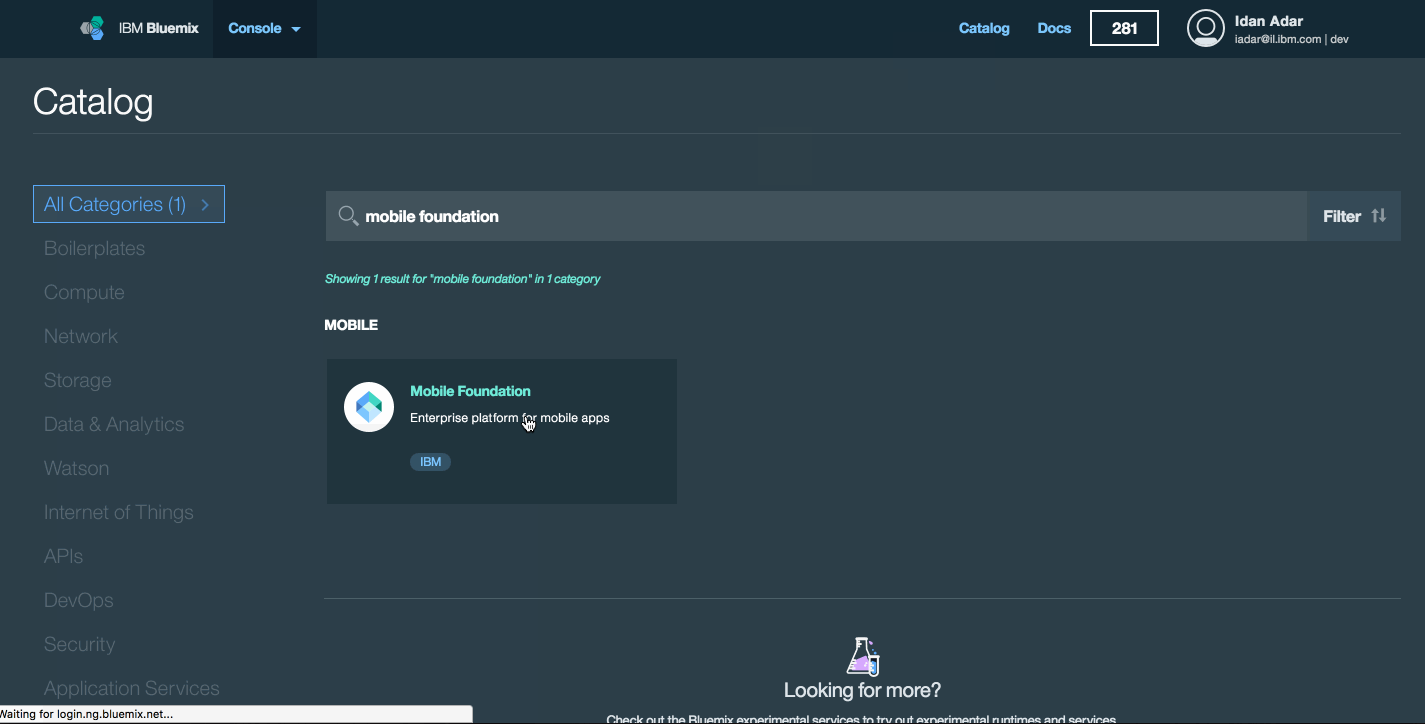
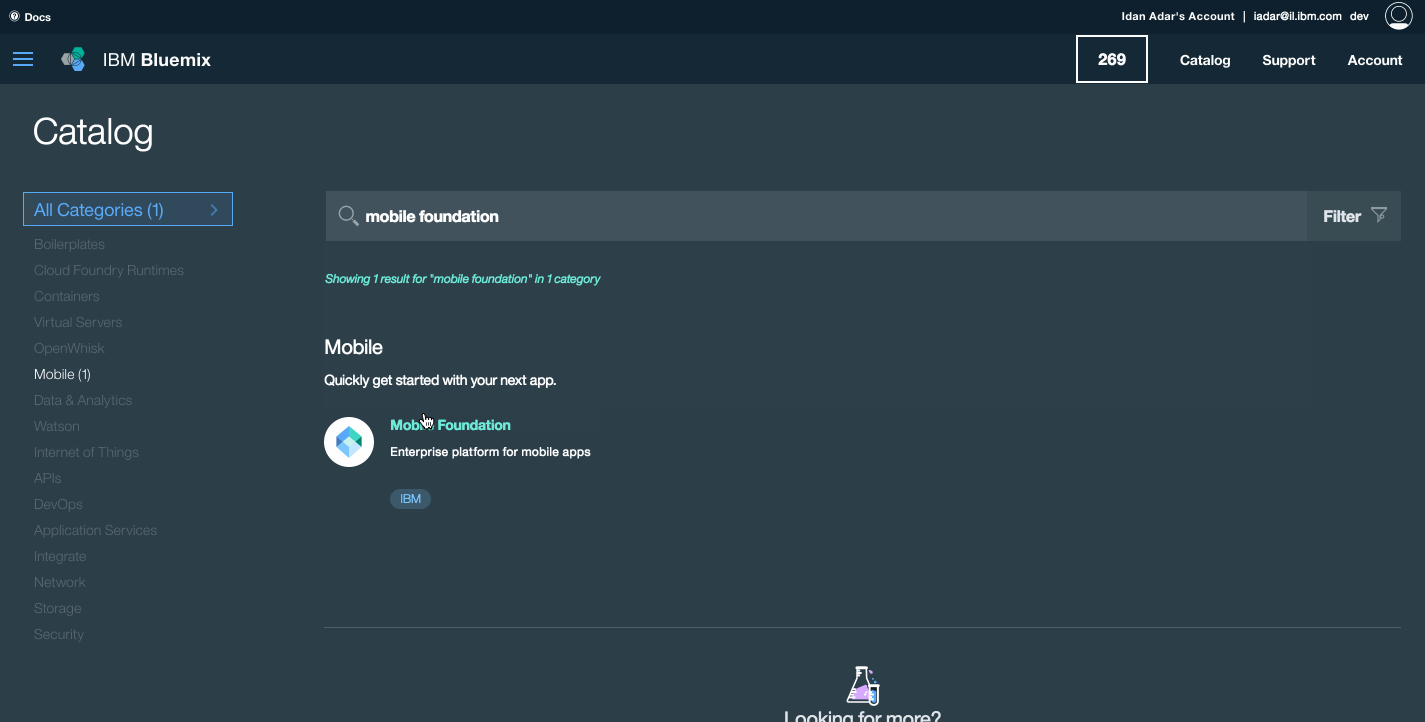
Update instructions with latest Bluemix UI changes

diff --git a/tutorials/en/foundation/8.0/bluemix/using-mobile-foundation/index.md b/tutorials/en/foundation/8.0/bluemix/using-mobile-foundation/index.md
@@ -38,9 +38,9 @@ The Mobile Foundation service offers the following plan options:
 ## Setting up the Mobile Foundation service
 To set up the available plans, first follow these steps:
 
-1. Load [bluemix.net](http://bluemix.net), login, and click on the **Get started now!** button or the **Catalog** link.
-2. Search for the term **Mobile Foundation** and click on the resulting tile option.
-3. *Optional*. Enter a name for the service or use the default provided service name.
+1. Load [bluemix.net](http://bluemix.net), login, and click on **Catalog**.
+2. Search for **Mobile Foundation** and click on the resulting tile option.
+3. *Optional*. Enter a custom name for the service instance, or use the default provided name.
 4. Select the desired pricing plan, then click **Create**.
 
     <img class="gifplayer" alt="Creating a Mobile Foundation service instance" src="service-creation.png"/>
